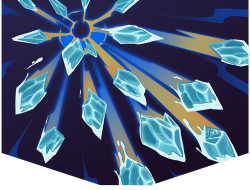
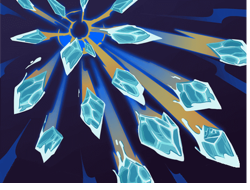
Renamed some cards, fixed blizzard art, rebalanced some cards

diff --git a/src/main/java/prismaticmod/cards/ExploitWeakness.java b/src/main/java/prismaticmod/cards/ExploitWeakness.java
@@ -1,54 +1,47 @@
 package prismaticmod.cards;
 
-import com.megacrit.cardcrawl.actions.AbstractGameAction;
-import com.megacrit.cardcrawl.actions.common.DamageAction;
-import com.megacrit.cardcrawl.cards.DamageInfo;
+import com.megacrit.cardcrawl.actions.common.ApplyPowerAction;
+import com.megacrit.cardcrawl.actions.common.GainBlockAction;
 import com.megacrit.cardcrawl.characters.AbstractPlayer;
 import com.megacrit.cardcrawl.monsters.AbstractMonster;
 import com.megacrit.cardcrawl.powers.AbstractPower;
 import com.megacrit.cardcrawl.powers.ArtifactPower;
-import com.megacrit.cardcrawl.powers.EnvenomPower;
-import com.megacrit.cardcrawl.powers.PoisonPower;
-import com.megacrit.cardcrawl.powers.watcher.FreeAttackPower;
-import prismaticmod.relics.WristBlade2;
+import com.megacrit.cardcrawl.powers.WeakPower;
 import prismaticmod.util.CardStats;
 import theprismatic.ThePrismatic;
-
-import static com.megacrit.cardcrawl.dungeons.AbstractDungeon.player;
 
 public class ExploitWeakness extends BaseCard {
     public static final String ID = makeID("Exploit Weakness"); //makeID adds the mod ID, so the final ID will be something like "modID:MyCard"
     private static final CardStats info = new CardStats(
             ThePrismatic.Enums.CARD_COLOR, //The card color. If you're making your own character, it'll look something like this. Otherwise, it'll be CardColor.RED or something similar for a base game character color.
-            CardType.ATTACK, //The type. ATTACK/SKILL/POWER/CURSE/STATUS
-            CardRarity.RARE, //Rarity. BASIC is for starting cards, then there's COMMON/UNCOMMON/RARE, and then SPECIAL and CURSE. SPECIAL is for cards you only get from events. Curse is for curses, except for special curses like Curse of the Bell and Necronomicurse.
+            CardType.SKILL, //The type. ATTACK/SKILL/POWER/CURSE/STATUS
+            CardRarity.UNCOMMON, //Rarity. BASIC is for starting cards, then there's COMMON/UNCOMMON/RARE, and then SPECIAL and CURSE. SPECIAL is for cards you only get from events. Curse is for curses, except for special curses like Curse of the Bell and Necronomicurse.
             CardTarget.ENEMY, //The target. Single target is ENEMY, all enemies is ALL_ENEMY. Look at cards similar to what you want to see what to use.
             1 //The card's base cost. -1 is X cost, -2 is no cost for unplayable cards like curses, or Reflex.
     );
     //These will be used in the constructor. Technically you can just use the values directly,
     //but constants at the top of the file are easy to adjust.
 
-    private static final int DAMAGE = 7;
-    private static final int UPG_DAMAGE = 2;
+    private static final int BLOCK = 4;
+    private static final int UPG_BLOCK = 1;
+    private static final int baseMagicNumber = 1;
+    private static final int UPG_Number = 1;
 
     public ExploitWeakness() {
         super(ID, info); //Pass the required information to the BaseCard constructor.
-        setDamage(DAMAGE, UPG_DAMAGE); //Sets the card's damage and how much it changes when upgraded.
+        setBlock(BLOCK, UPG_BLOCK); //Sets the card's damage and how much it changes when upgraded.
+        setMagic(baseMagicNumber, UPG_Number);
     }
     @Override
     public void use(AbstractPlayer p, AbstractMonster m) {
-        addToBot(new DamageAction(m, new DamageInfo(p, damage, damageTypeForTurn), AbstractGameAction.AttackEffect.SLASH_HORIZONTAL));
+        addToBot(new ApplyPowerAction(m, p, new WeakPower(m, this.magicNumber, false), this.magicNumber));
         for(AbstractPower power : m.powers){
             if(power.type == AbstractPower.PowerType.DEBUFF && !power.ID.equals("Shackled")){
-                addToBot(new DamageAction(m, new DamageInfo(p, damage, damageTypeForTurn), AbstractGameAction.AttackEffect.SLASH_HORIZONTAL));
+                addToBot(new GainBlockAction(p, p, block, true));
             }
         }
-        if(p.hasPower(EnvenomPower.POWER_ID) && !m.hasPower(ArtifactPower.POWER_ID) && !m.hasPower(PoisonPower.POWER_ID)){
-            addToBot(new DamageAction(m, new DamageInfo(p, damage, damageTypeForTurn), AbstractGameAction.AttackEffect.SLASH_HORIZONTAL));
-        }
-        if(p.hasRelic(WristBlade2.ID) && !m.hasPower(ArtifactPower.POWER_ID) && !m.hasPower(PoisonPower.POWER_ID)
-                && !p.hasPower(EnvenomPower.POWER_ID) && !(this.costForTurn == 0 || this.freeToPlayOnce || player.hasPower(FreeAttackPower.POWER_ID))){
-            addToBot(new DamageAction(m, new DamageInfo(p, damage, damageTypeForTurn), AbstractGameAction.AttackEffect.SLASH_HORIZONTAL));
+        if(!m.hasPower(ArtifactPower.POWER_ID) && !m.hasPower(WeakPower.POWER_ID)){
+            addToBot(new GainBlockAction(p, p, block, true));
         }
     }
 }

diff --git a/src/main/java/prismaticmod/cards/ExploitPain.java b/src/main/java/prismaticmod/cards/ExploitPain.java
@@ -1,0 +1,54 @@
+package prismaticmod.cards;
+
+import com.megacrit.cardcrawl.actions.AbstractGameAction;
+import com.megacrit.cardcrawl.actions.common.DamageAction;
+import com.megacrit.cardcrawl.cards.DamageInfo;
+import com.megacrit.cardcrawl.characters.AbstractPlayer;
+import com.megacrit.cardcrawl.monsters.AbstractMonster;
+import com.megacrit.cardcrawl.powers.AbstractPower;
+import com.megacrit.cardcrawl.powers.ArtifactPower;
+import com.megacrit.cardcrawl.powers.EnvenomPower;
+import com.megacrit.cardcrawl.powers.PoisonPower;
+import com.megacrit.cardcrawl.powers.watcher.FreeAttackPower;
+import prismaticmod.relics.WristBlade2;
+import prismaticmod.util.CardStats;
+import theprismatic.ThePrismatic;
+
+import static com.megacrit.cardcrawl.dungeons.AbstractDungeon.player;
+
+public class ExploitPain extends BaseCard {
+    public static final String ID = makeID("Exploit Pain"); //makeID adds the mod ID, so the final ID will be something like "modID:MyCard"
+    private static final CardStats info = new CardStats(
+            ThePrismatic.Enums.CARD_COLOR, //The card color. If you're making your own character, it'll look something like this. Otherwise, it'll be CardColor.RED or something similar for a base game character color.
+            CardType.ATTACK, //The type. ATTACK/SKILL/POWER/CURSE/STATUS
+            CardRarity.RARE, //Rarity. BASIC is for starting cards, then there's COMMON/UNCOMMON/RARE, and then SPECIAL and CURSE. SPECIAL is for cards you only get from events. Curse is for curses, except for special curses like Curse of the Bell and Necronomicurse.
+            CardTarget.ENEMY, //The target. Single target is ENEMY, all enemies is ALL_ENEMY. Look at cards similar to what you want to see what to use.
+            1 //The card's base cost. -1 is X cost, -2 is no cost for unplayable cards like curses, or Reflex.
+    );
+    //These will be used in the constructor. Technically you can just use the values directly,
+    //but constants at the top of the file are easy to adjust.
+
+    private static final int DAMAGE = 7;
+    private static final int UPG_DAMAGE = 2;
+
+    public ExploitPain() {
+        super(ID, info); //Pass the required information to the BaseCard constructor.
+        setDamage(DAMAGE, UPG_DAMAGE); //Sets the card's damage and how much it changes when upgraded.
+    }
+    @Override
+    public void use(AbstractPlayer p, AbstractMonster m) {
+        addToBot(new DamageAction(m, new DamageInfo(p, damage, damageTypeForTurn), AbstractGameAction.AttackEffect.SLASH_HORIZONTAL));
+        for(AbstractPower power : m.powers){
+            if(power.type == AbstractPower.PowerType.DEBUFF && !power.ID.equals("Shackled")){
+                addToBot(new DamageAction(m, new DamageInfo(p, damage, damageTypeForTurn), AbstractGameAction.AttackEffect.SLASH_HORIZONTAL));
+            }
+        }
+        if(p.hasPower(EnvenomPower.POWER_ID) && !m.hasPower(ArtifactPower.POWER_ID) && !m.hasPower(PoisonPower.POWER_ID)){
+            addToBot(new DamageAction(m, new DamageInfo(p, damage, damageTypeForTurn), AbstractGameAction.AttackEffect.SLASH_HORIZONTAL));
+        }
+        if(p.hasRelic(WristBlade2.ID) && !m.hasPower(ArtifactPower.POWER_ID) && !m.hasPower(PoisonPower.POWER_ID)
+                && !p.hasPower(EnvenomPower.POWER_ID) && !(this.costForTurn == 0 || this.freeToPlayOnce || player.hasPower(FreeAttackPower.POWER_ID))){
+            addToBot(new DamageAction(m, new DamageInfo(p, damage, damageTypeForTurn), AbstractGameAction.AttackEffect.SLASH_HORIZONTAL));
+        }
+    }
+}

diff --git a/src/main/java/prismaticmod/cards/Storm2.java b/src/main/java/prismaticmod/cards/Storm2.java
@@ -14,13 +14,14 @@ public class Storm2 extends BaseCard {
             CardType.POWER, //The type. ATTACK/SKILL/POWER/CURSE/STATUS
             CardRarity.UNCOMMON, //Rarity. BASIC is for starting cards, then there's COMMON/UNCOMMON/RARE, and then SPECIAL and CURSE. SPECIAL is for cards you only get from events. Curse is for curses, except for special curses like Curse of the Bell and Necronomicurse.
             CardTarget.SELF, //The target. Single target is ENEMY, all enemies is ALL_ENEMY. Look at cards similar to what you want to see what to use.
-            0 //The card's base cost. -1 is X cost, -2 is no cost for unplayable cards like curses, or Reflex.
+            1 //The card's base cost. -1 is X cost, -2 is no cost for unplayable cards like curses, or Reflex.
     );
 
     //These will be used in the constructor. Technically you can just use the values directly,
     //but constants at the top of the file are easy to adjust.
     public Storm2() {
         super(ID, info); //Pass the required information to the BaseCard constructor.
+        this.isInnate = true;
     }
 
     @Override
@@ -31,8 +32,7 @@ public class Storm2 extends BaseCard {
     public void upgrade() {
         if (!this.upgraded) {
             upgradeName();
-            this.isInnate = true;
-            this.rawDescription = cardStrings.UPGRADE_DESCRIPTION;
+            upgradeBaseCost(0);
             initializeDescription();
         }
     }

diff --git a/src/main/java/theprismatic/ThePrismatic.java b/src/main/java/theprismatic/ThePrismatic.java
@@ -473,7 +473,17 @@ public class ThePrismatic extends CustomPlayer {
     public AbstractCard getStartCardForEvent() {
         //This card is used for the Gremlin card matching game.
         //It should be a non-strike non-defend starter card, but it doesn't have to be.
-        return new Bash();
+        ArrayList<AbstractCard> prismaticCards = new ArrayList<>();
+        Collections.addAll(prismaticCards, new CunningStrike(), new DivineStrike(), new EmptyStrike(),
+                new ExhaustingStrike(), new FrostyStrike(), new InsightfulStrike(), new LootingStrike(),
+                new RetainingStrike(), new SadisticStrike(), new ScrapingStrike(), new ScryingStrike(),
+                new StormyStrike(), new StrikeForOne(), new TargetingStrike(), new ToxicStrike(),
+                new CunningDefend(), new DefendForOne(), new DivineDefend(), new EmptyDefend(),
+                new ExhaustingDefend(), new FrostyDefend(), new InsightfulDefend(), new LootingDefend(),
+                new RetainingDefend(), new SadisticDefend(), new ScrapingDefend(), new ScryingDefend(),
+                new StormyDefend(), new TargetingDefend(), new ToxicDefend());
+        Random rand = new Random();
+        return prismaticCards.get(rand.nextInt(prismaticCards.size()));
     }
 
     /*- Below this is methods that you should *probably* adjust, but don't have to. -*/

diff --git a/src/main/java/prismaticmod/cards/StaticDischarge2.java b/src/main/java/prismaticmod/cards/StaticDischarge2.java
@@ -22,12 +22,20 @@ public class StaticDischarge2 extends BaseCard {
         //These will be used in the constructor. Technically you can just use the values directly,
         //but constants at the top of the file are easy to adjust.
         int baseMagicNumber = 1;
-        int UPG_Magic = 1;
+        int UPG_Magic = 0;
         setMagic(baseMagicNumber, UPG_Magic);
     }
 
     @Override
     public void use(AbstractPlayer p, AbstractMonster m) {
         addToBot(new ApplyPowerAction(p, p, new StaticDischarge2Power(magicNumber), magicNumber));
+    }
+    public void upgrade() {
+        if (!this.upgraded) {
+            upgradeName();
+            this.isInnate = true;
+            this.rawDescription = cardStrings.UPGRADE_DESCRIPTION;
+            initializeDescription();
+        }
     }
 }
